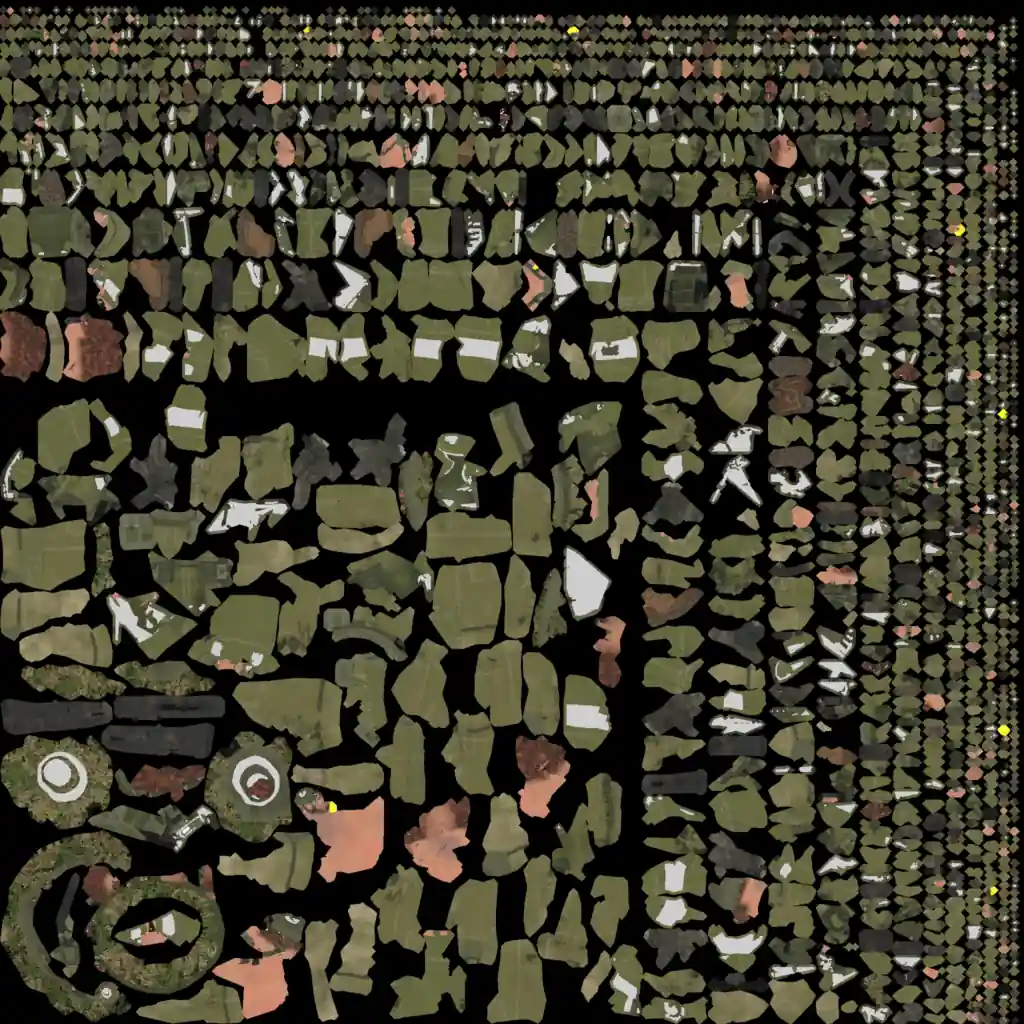
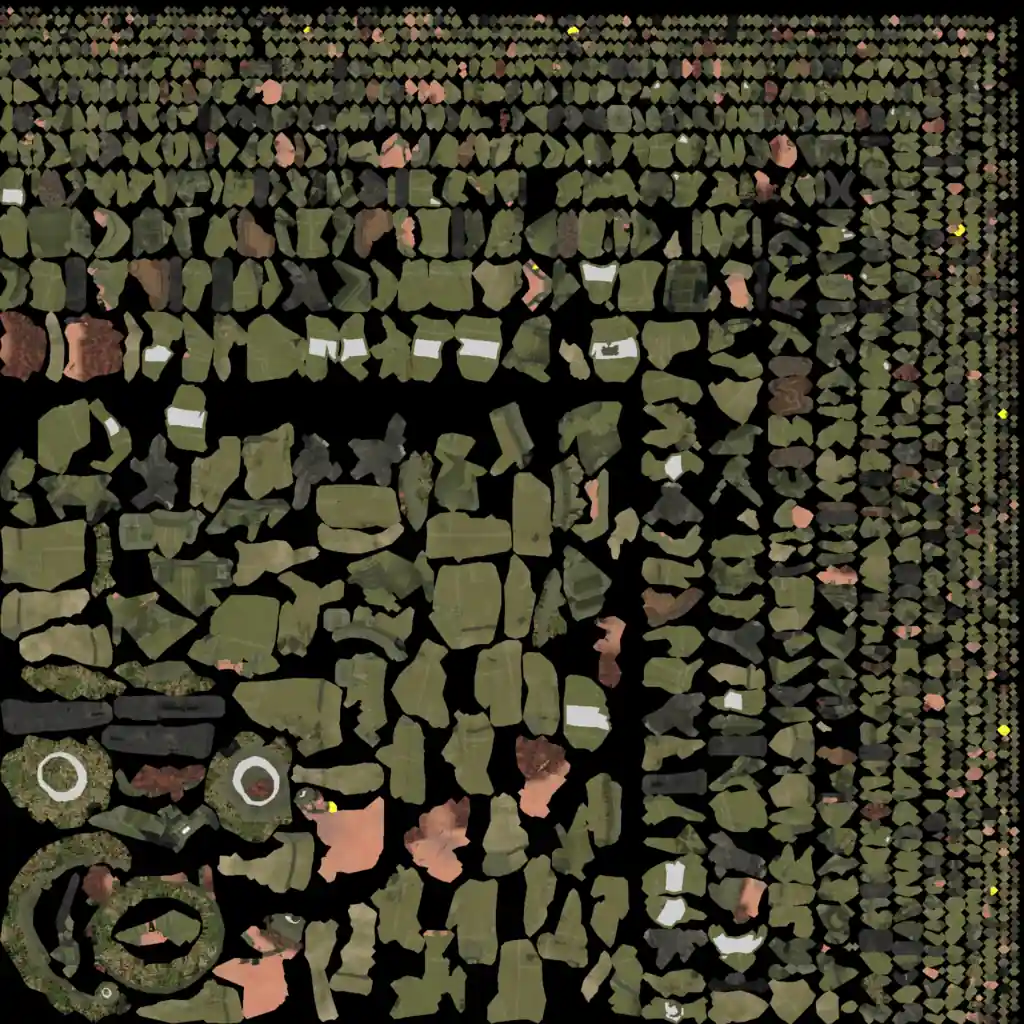
BI3 v3: hero soldier gear keeps its dark olive; team colour only on a helmet band + armbands
Owner feedback: the vest must not look blue from the back. The plate carrier, its shoulder straps / pads
and the pack leave the team mask (TEAM_OBJS empty, no pack / chest panel); the player colour is now a
realistic identification band round the helmet / Mitznefet and a band on both upper sleeves. Composite
only (same meshes and bakes as v2); still opt-in (?blender=1).

Claude-Session: https://claude.ai/code/session_01AfPbHWRnbNkqsFSA7HPjiC

diff --git a/web/tools/blender/hero-game/hero_game.py b/web/tools/blender/hero-game/hero_game.py
@@ -114,9 +114,8 @@ def is_arm(p):
     return (abs(p.x) > 0.185 or (abs(p.x) > 0.16 and p.z > 1.33)) and p.z > 0.86 and arm_t(p)[0] > -0.02 and arm_t(p)[1] < 0.15
 
 
-# player colour from above and from the sides (the RTS camera): the pack and the plate carrier's shoulder
-# straps / pads carry it (their top and back faces, composite()), as the procedural soldier's pack lid does
-TEAM_OBJS = ('Pack', 'Pack_TopPocket', 'Pack_Pocket', 'Vest_ShoulderPad_L', 'Vest_ShoulderPad_R', 'Vest_ShoulderStrap_L', 'Vest_ShoulderStrap_R')
+# objects whose every outward face takes the player colour (mask bake B = 0.25, composite())
+TEAM_OBJS = ()  # (none since v3: gear keeps its olive; the mechanism tags whole objects for the mask bake)
 
 
 def team_mats(o):
@@ -912,28 +911,21 @@ def composite(aid, px, order, tex):
     Nb = px['nrm'][..., :3] * 2 - 1
     Ng = np.stack([Nb[..., 0], Nb[..., 2], -Nb[..., 1]], -1)
     clothm = cloth > 0.5
-    # player colour (orm R) where the procedural soldier shows it: arm bands, helmet band + crown patch,
-    # chest ID panel, pack lid
+    # player colour (orm R): small, realistic markers only (owner: the plate carrier, its straps and the pack
+    # keep their dark olive): an identification band round the helmet / Mitznefet (like an exercise band)
+    # and a band on both upper sleeves; the selection / team outline does the rest at play zoom
     arm = np.zeros(P.shape[:2], bool)
     for s in ('R', 'L'):
         y0 = REST['aua' + s].y - 0.135
-        arm |= isb('aua' + s) & clothm & (np.abs(P[..., 1] - y0) < 0.055) & ~flag
+        arm |= isb('aua' + s) & clothm & (np.abs(P[..., 1] - y0) < 0.05) & ~flag
     head = np.array(REST['ahead'][:])
     q = P - (head + np.array([-0.005, 0.12, 0.0]))
     r = np.linalg.norm(q, axis=-1)
     el = np.arcsin(np.clip(q[..., 1] / np.maximum(r, 1e-6), -1, 1))
-    # the helmet (Mitznefet net or shell, whichever the bake hit): band + a wide crown, the RTS camera looks
-    # down on the helmets
+    # (whichever helmet surface the bake hit: Mitznefet net or shell)
     helm = isb('ahead') & (P[..., 1] > head[1] + 0.06) & (fs < 0.4)
-    t_helmet = helm & ((np.abs(el - 0.30) < 0.08) | (el > 0.6))
-    sp = np.array(REST['aspine'][:])
-    c = P - sp
-    t_chest = isb('achest') & clothm & (Ng[..., 0] > 0.55) & (c[..., 0] > 0.08) & (np.abs(c[..., 1] - 0.36) < 0.05) & (np.abs(c[..., 2]) < 0.085)
-    # the pack (top and back): the procedural soldier's big team-coloured pack lid reads from every side
-    t_pack = isb('achest') & clothm & (c[..., 0] < -0.13) & (c[..., 1] > 0.02) & ((Ng[..., 1] > 0.3) | (Ng[..., 0] < -0.5))
-    # tagged objects (TEAM_OBJS): everything but the faces against the body
-    t_obj = (np.abs(fs - 0.25) < 0.1) & ((Ng[..., 1] > -0.3) | (Ng[..., 0] < -0.3))
-    teamm = (arm | t_helmet | t_chest | t_pack | t_obj).astype(np.float32)
+    t_helmet = helm & (np.abs(el - 0.32) < 0.09)
+    teamm = (arm | t_helmet).astype(np.float32)
     # hard-edged and slightly grown (no pale halo blending into the camo at 256 px)
     teamm = (C.blur(teamm, 1) > 0.3).astype(np.float32) * used
     alb = base * ALB_GAIN * (AO_FLOOR + (1 - AO_FLOOR) * ao)[..., None]
